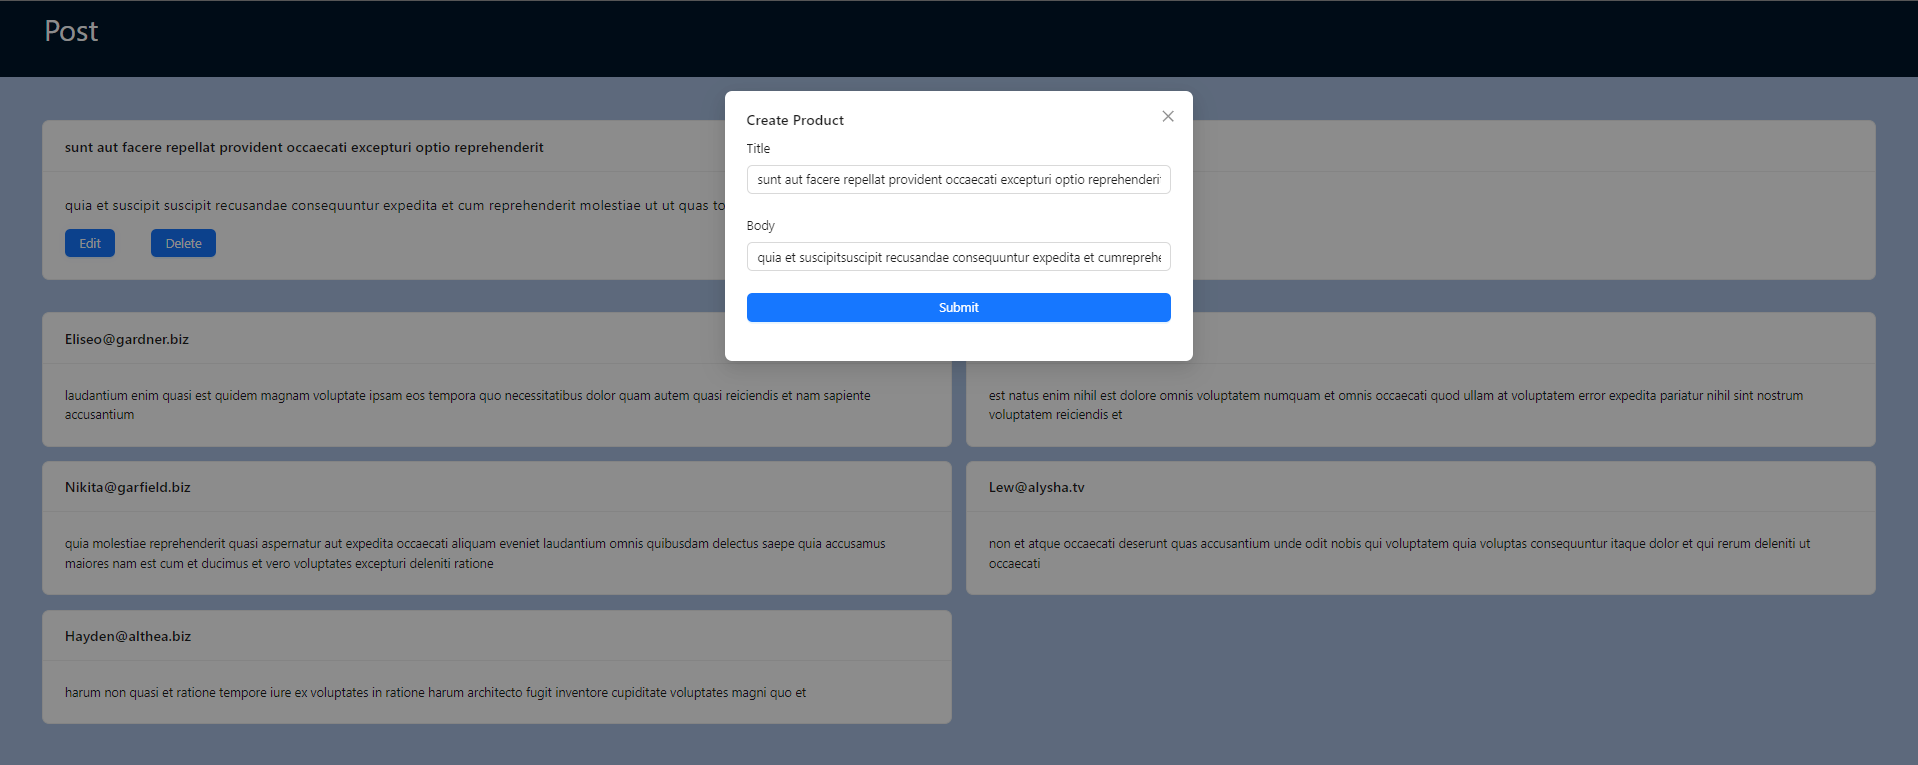
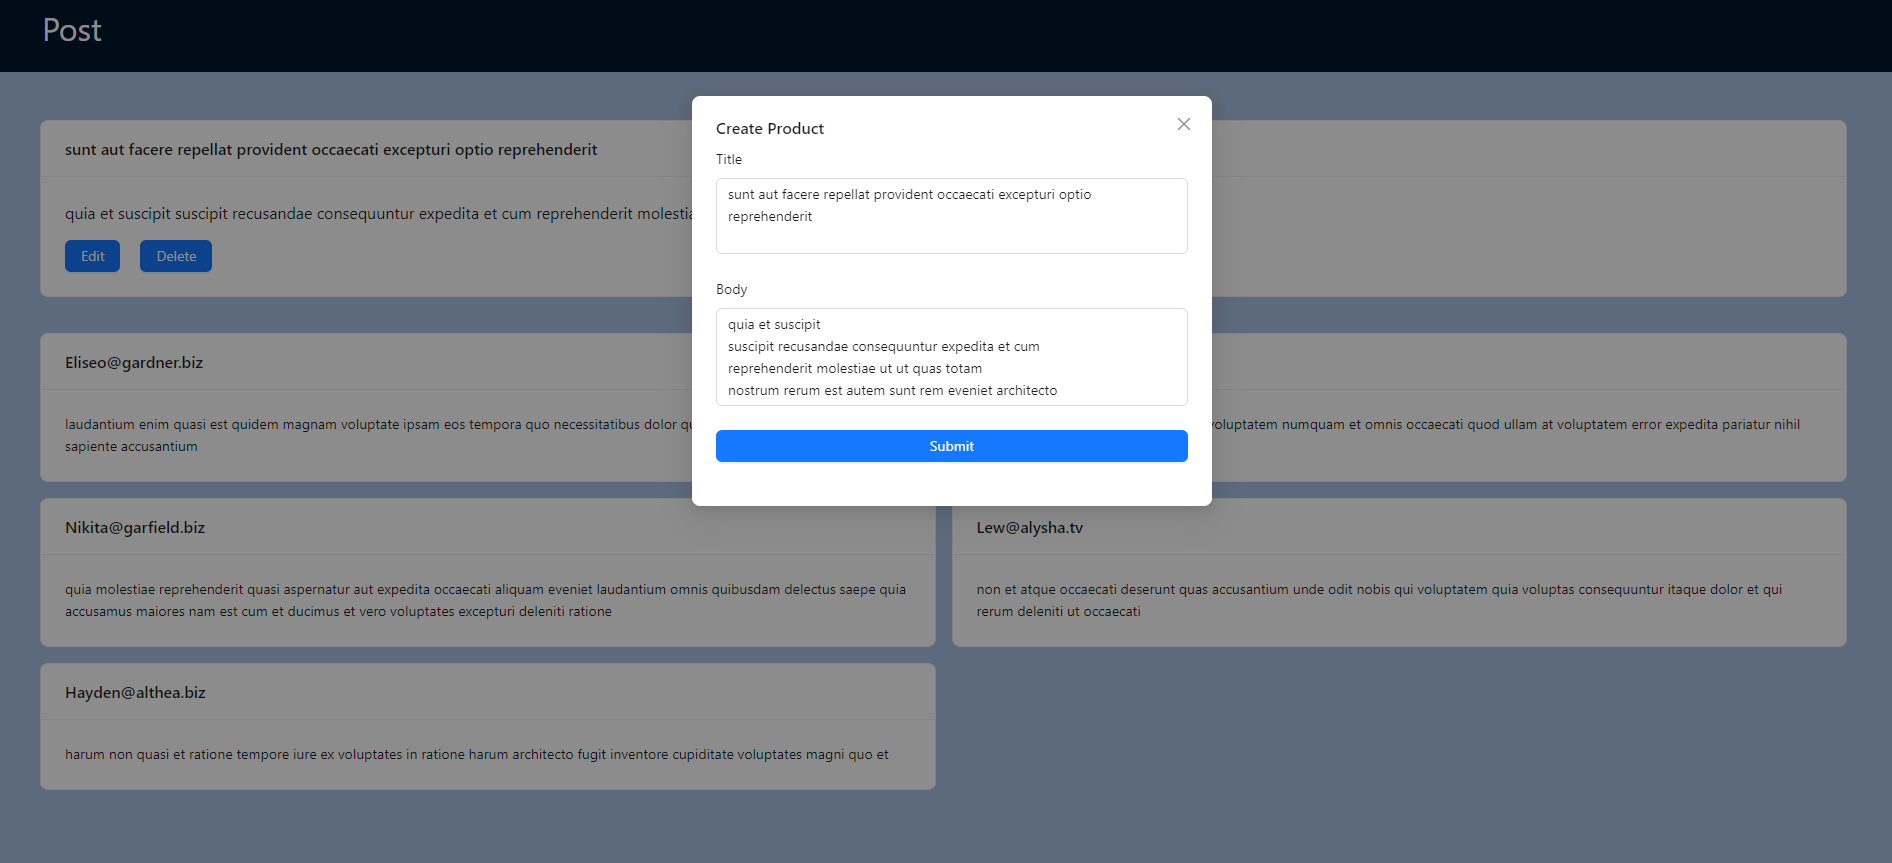
refactoring Inputs and margin

Changed region(s): [[0.0, 0.0, 1.0, 0.8418], [0.0, 0.8719, 0.4989, 0.9621]]

diff --git a/src/components/form/index.tsx b/src/components/form/index.tsx
@@ -1,5 +1,6 @@
 import { Button, Form as AntdForm, FormInstance, Input } from 'antd';
 import { Post } from '../../types/post';
+const { TextArea } = Input;
 
 type Props = {
   form: FormInstance<Post>;
@@ -16,11 +17,17 @@ export const Form: React.FC<Props> = ({ form, onFinish, post }) => {
       initialValues={post}
     >
       <AntdForm.Item label='Title' name='title'>
-        <Input defaultValue={post?.title} />
+        <TextArea
+          defaultValue={post?.title}
+          autoSize={{ minRows: 3, maxRows: 5 }}
+        />
       </AntdForm.Item>
 
       <AntdForm.Item label='Body' name='body'>
-        <Input defaultValue={post?.body} />
+        <TextArea
+          defaultValue={post?.body}
+          autoSize={{ minRows: 3, maxRows: 5 }}
+        />
       </AntdForm.Item>
       <AntdForm.Item>
         <Button type='primary' htmlType='submit' style={{ width: '100%' }}>

diff --git a/src/components/post/PostItem.tsx b/src/components/post/PostItem.tsx
@@ -57,7 +57,7 @@ export const PostItem: React.FC<{
         </Button>
       ) : (
         <div style={{ marginTop: 15 }}>
-          <Button onClick={editPost} type='primary' style={{ marginRight: 40 }}>
+          <Button onClick={editPost} type='primary' style={{ marginRight: 20 }}>
             Edit
           </Button>
           <Button onClick={deletePost} type='primary'>
